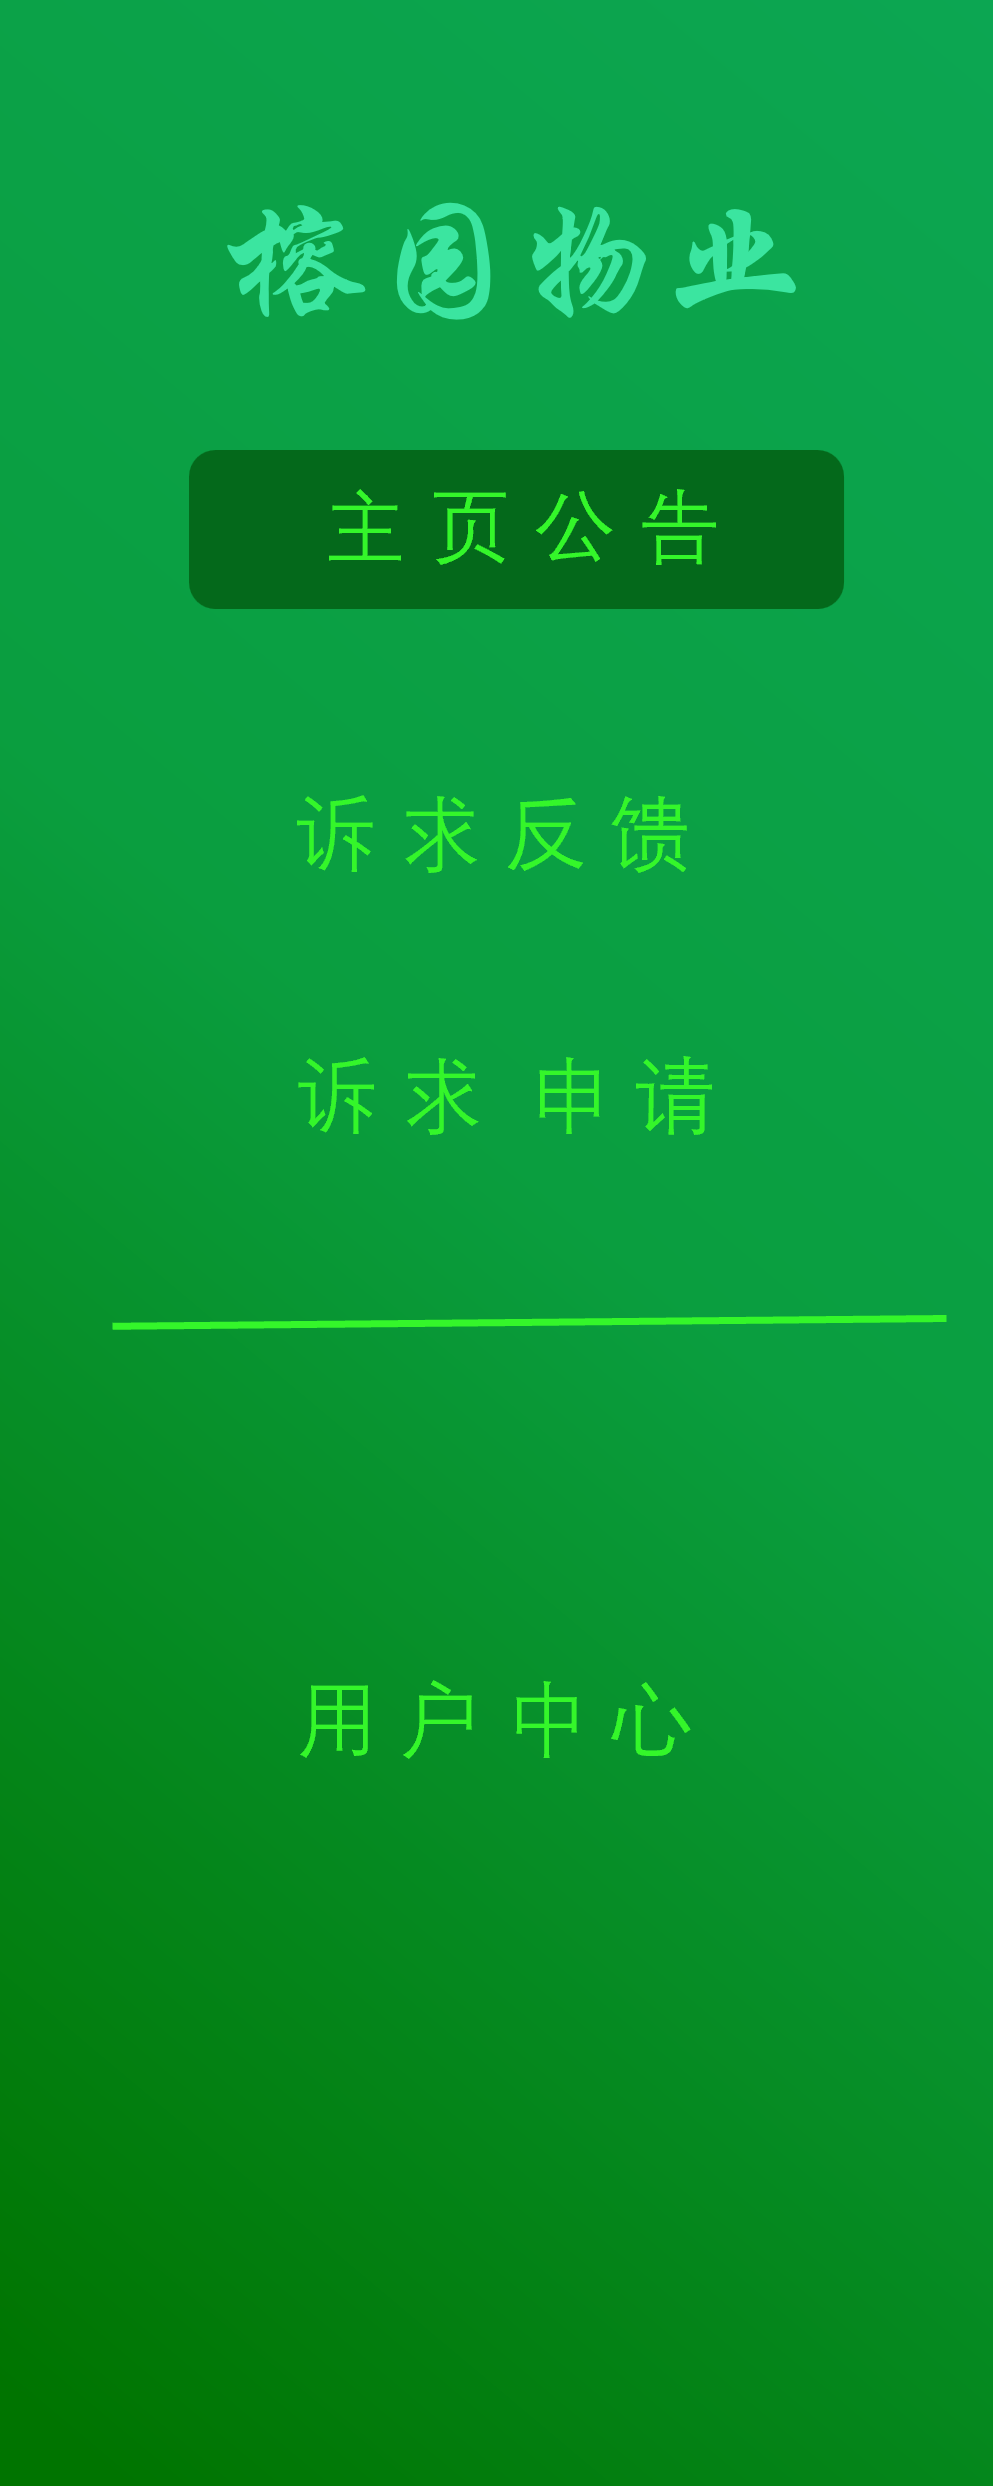
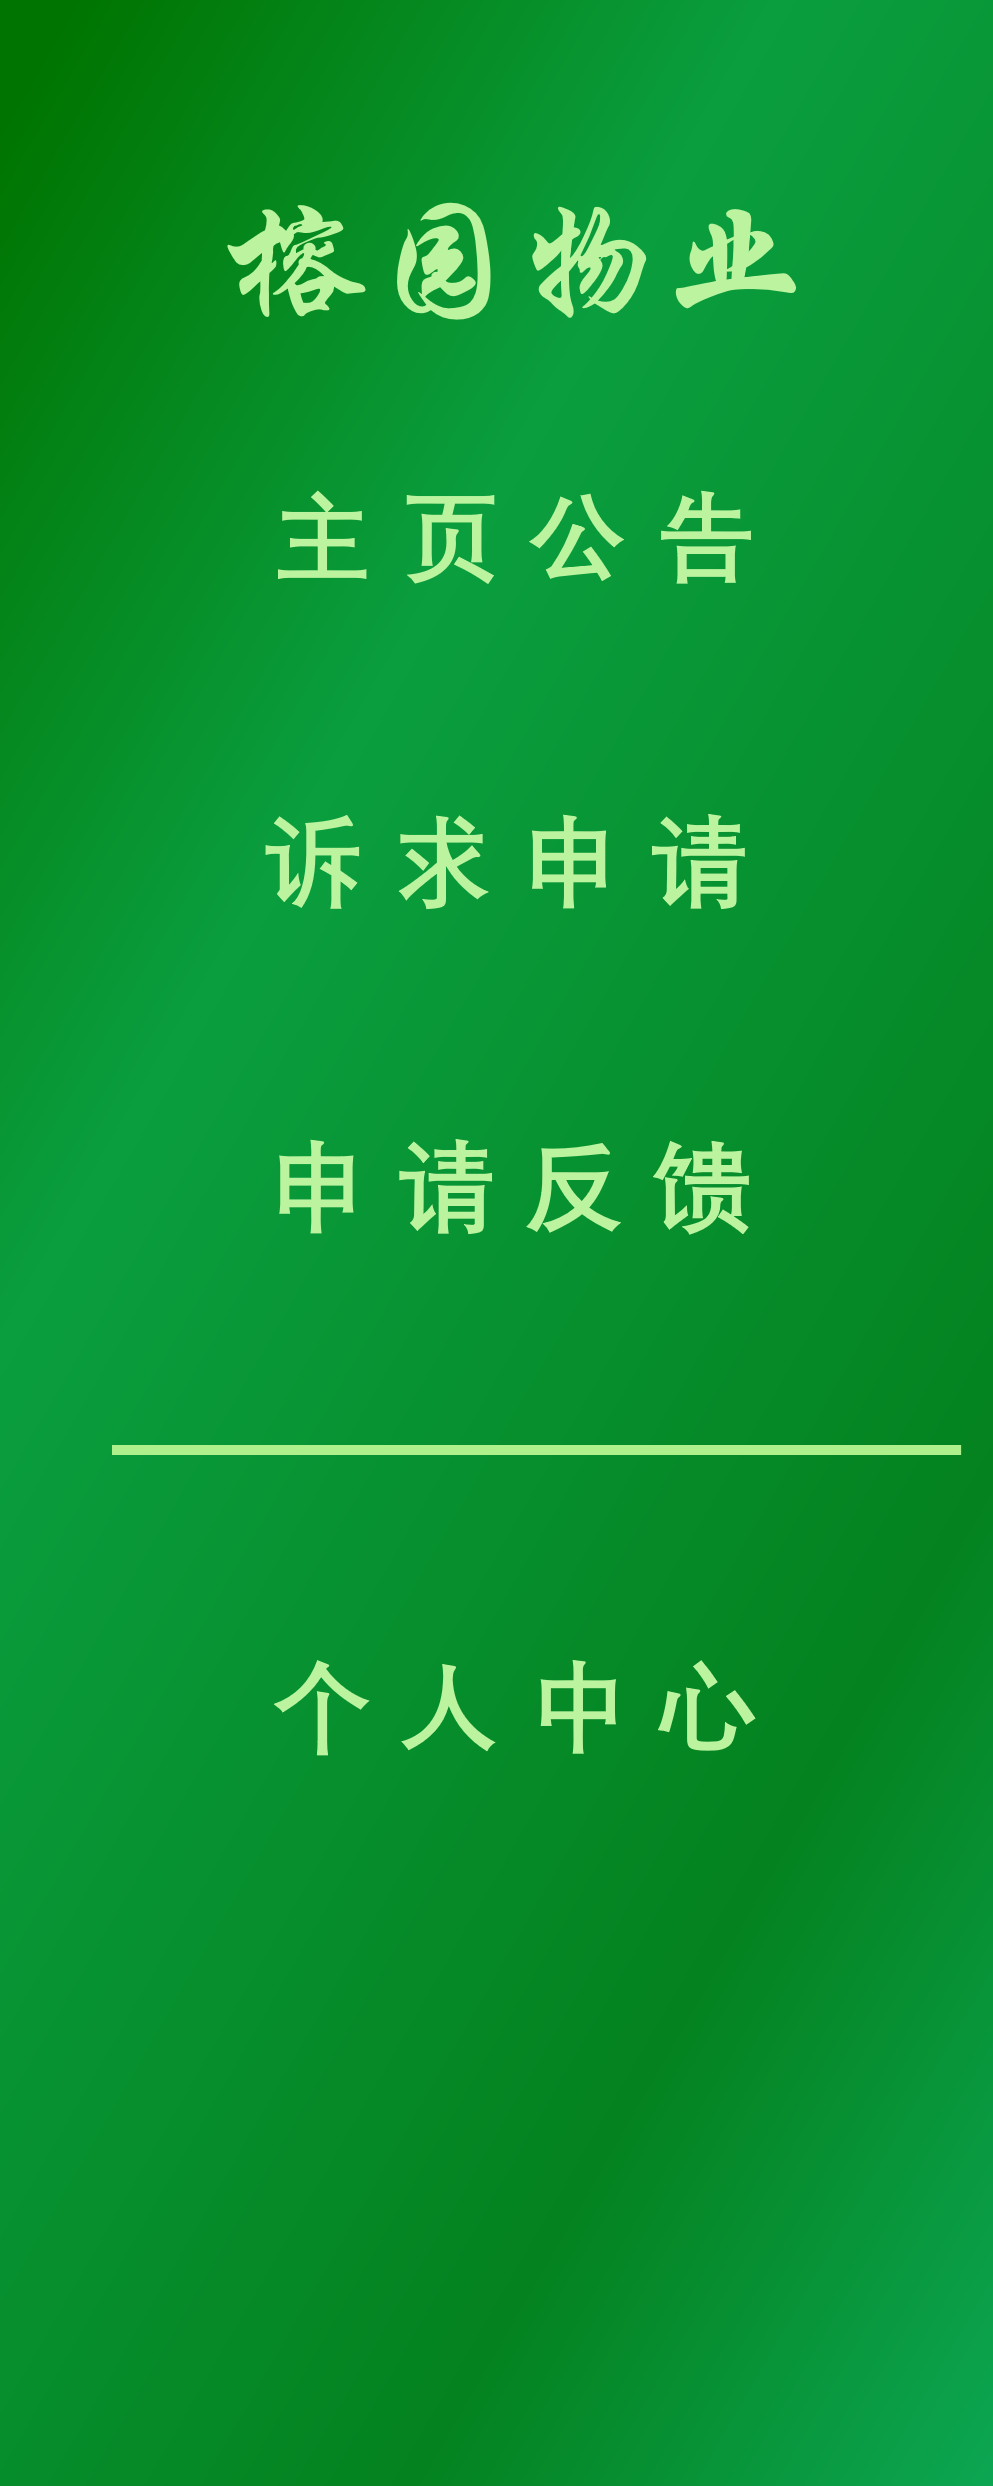
学生端导航栏实现

diff --git a/src/main/java/com/banyan_dormitory/controller/student/AnnouncementController.java b/src/main/java/com/banyan_dormitory/controller/student/AnnouncementController.java
@@ -1,10 +1,59 @@
 package com.banyan_dormitory.controller.student;
 
-public class AnnouncementController {
-    public void initialize(){
+import javafx.fxml.FXML;
+import javafx.scene.control.Button;
+import javafx.scene.layout.StackPane;
 
+public class AnnouncementController {
+    @FXML
+    private StackPane homepageContainer, applyContainer, feedbackContainer, user_centerContainer;
+    @FXML
+    private Button homepage;
+    @FXML
+    private Button apply;
+    @FXML
+    private Button feedback;
+    @FXML
+    private Button user_center;
+    private StackPane currentSelectedContainer;
+    @FXML
+    private StackPane content; // 右边显示内容的 StackPane
+    public void initialize(){
+        setupButton(homepage, homepageContainer);
+        setupButton(apply, applyContainer);
+        setupButton(feedback, feedbackContainer);
+        setupButton(user_center, user_centerContainer);
+
+        // 默认选中第一个按钮
+        selectButton(homepageContainer);
     }
     public AnnouncementController() {
         // 默认构造函数
+    }
+
+    private void setupButton(Button button, StackPane container) {
+        button.setOnMouseEntered(event -> {
+            if (currentSelectedContainer != container) {
+                container.setStyle("-fx-border-color:  rgba(234,251,226,0.93);");
+            }
+        });
+
+        button.setOnMouseExited(event -> {
+            if (currentSelectedContainer != container) {
+                container.setStyle("-fx-background-color: transparent;");
+            }
+        });
+
+        button.setOnAction(event -> {
+            selectButton(container);
+        });
+    }
+
+    private void selectButton(StackPane newSelectedContainer) {
+        if (currentSelectedContainer != null) {
+            currentSelectedContainer.setStyle("-fx-background-color: transparent;");
+        }
+        currentSelectedContainer = newSelectedContainer;
+        currentSelectedContainer.setStyle("-fx-border-color: rgba(234,251,226,0.93);");
     }
 }

diff --git a/src/main/java/com/banyan_dormitory/Main.java b/src/main/java/com/banyan_dormitory/Main.java
@@ -8,10 +8,8 @@ import javafx.scene.Scene;
 import javafx.scene.control.Alert;
 import javafx.stage.Stage;
 
-import java.io.BufferedReader;
 import java.io.IOException;
 import java.io.InputStream;
-import java.io.InputStreamReader;
 import java.sql.Connection;
 import java.sql.SQLException;
 
@@ -34,7 +32,6 @@ public class Main extends Application {
     public void start(Stage stage) throws IOException {
         Main.stage=stage;
         stage.setTitle("榕园物业系统!");
-
         // 在启动时测试数据库连接
         testDatabaseConnection();
 
